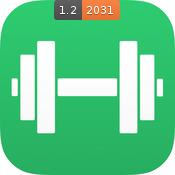
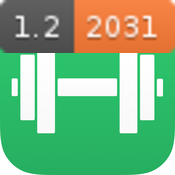
updated documentation and bumped version

Changed region(s): [[0.0, 0.0, 1.0, 0.3143], [0.3429, 0.0286, 0.3714, 0.0857]]

diff --git a/lib/badge/base.rb b/lib/badge/base.rb
@@ -1,6 +1,6 @@
 module Badge
 
-	VERSION = "0.3.0"
+	VERSION = "0.4.0"
 	DESCRIPTION = "Add a badge overlay to your ios app icon"
 
 	def self.root

diff --git a/README.md b/README.md
@@ -30,10 +30,17 @@ It's built to easily integrate with [fastlane](https://github.com/fastlane/fastl
 
 ![assets/icon175x175_shield_1.2-2031-orange.png](assets/icon175x175_shield_1.2-2031-orange.png?raw=1) ![assets/icon175x175_fitrack_shield_1.2-2031-orange.png](assets/icon175x175_fitrack_shield_1.2-2031-orange.png?raw=1)
 
+	badge --shield="1.2-2031-orange" --no_badge --shield_no_resize
+
+![assets/icon175x175_shield_1.2-2031-orange-no-resize.png](assets/icon175x175_shield_1.2-2031-orange-no-resize.png?raw=1) ![assets/icon175x175_fitrack_shield_1.2-2031-orange-no-resize.png](assets/icon175x175_fitrack_shield_1.2-2031-orange-no-resize.png?raw=1)
+
 	badge --shield="Version-0.0.3-blue" --dark
 
 ![assets/icon175x175_shield_Version-0.0.3-blue.png](assets/icon175x175_shield_Version-0.0.3-blue.png?raw=1) ![assets/icon175x175_fitrack_shield_Version-0.0.3-blue.png](assets/icon175x175_fitrack_shield_Version-0.0.3-blue.png?raw=1)
 
+	badge --shield="Version-0.0.3-blue" --dark --shield_no_resize
+
+![assets/icon175x175_shield_Version-0.0.3-blue-no-resize.png](assets/icon175x175_shield_Version-0.0.3-blue-no-resize.png?raw=1) ![assets/icon175x175_fitrack_shield_Version-0.0.3-blue-no-resize.png](assets/icon175x175_fitrack_shield_Version-0.0.3-blue-no-resize.png?raw=1)
 # Installation
 
 Install the gem
